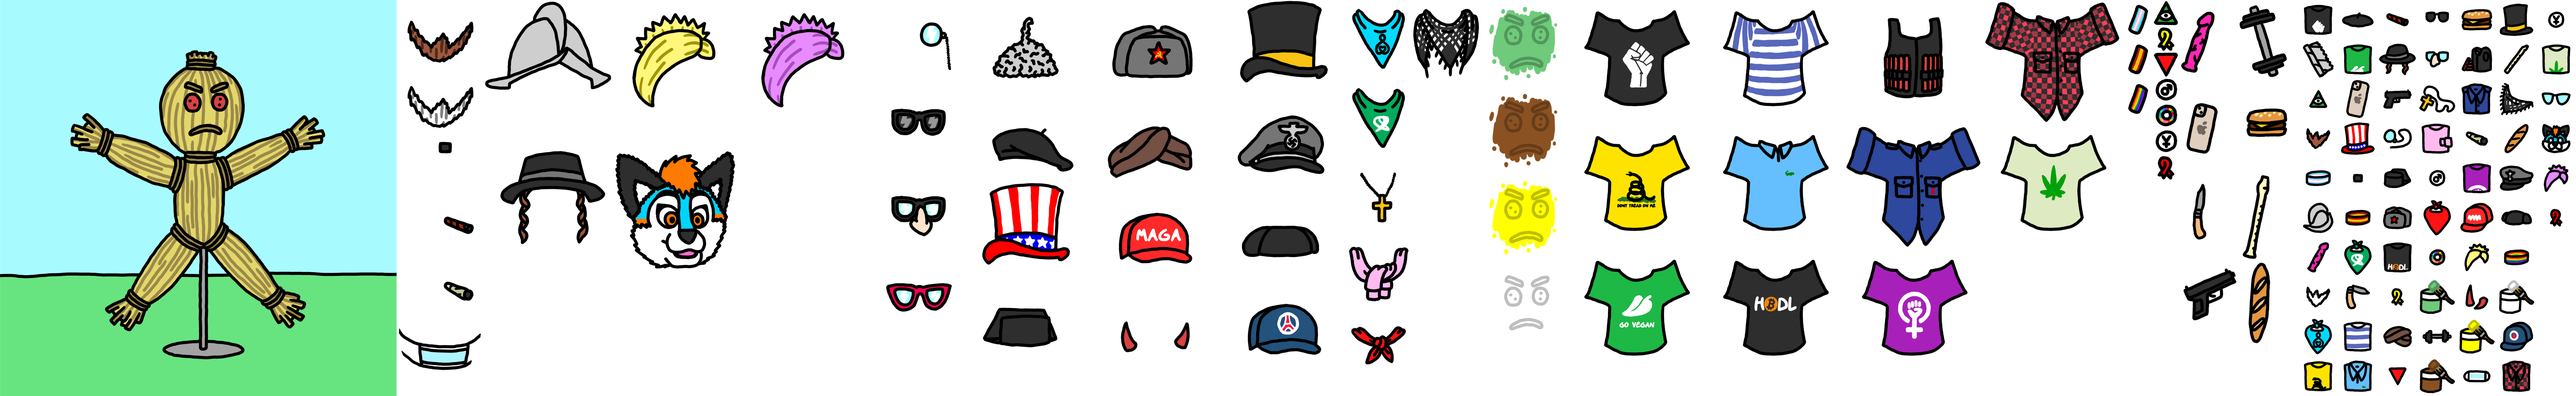
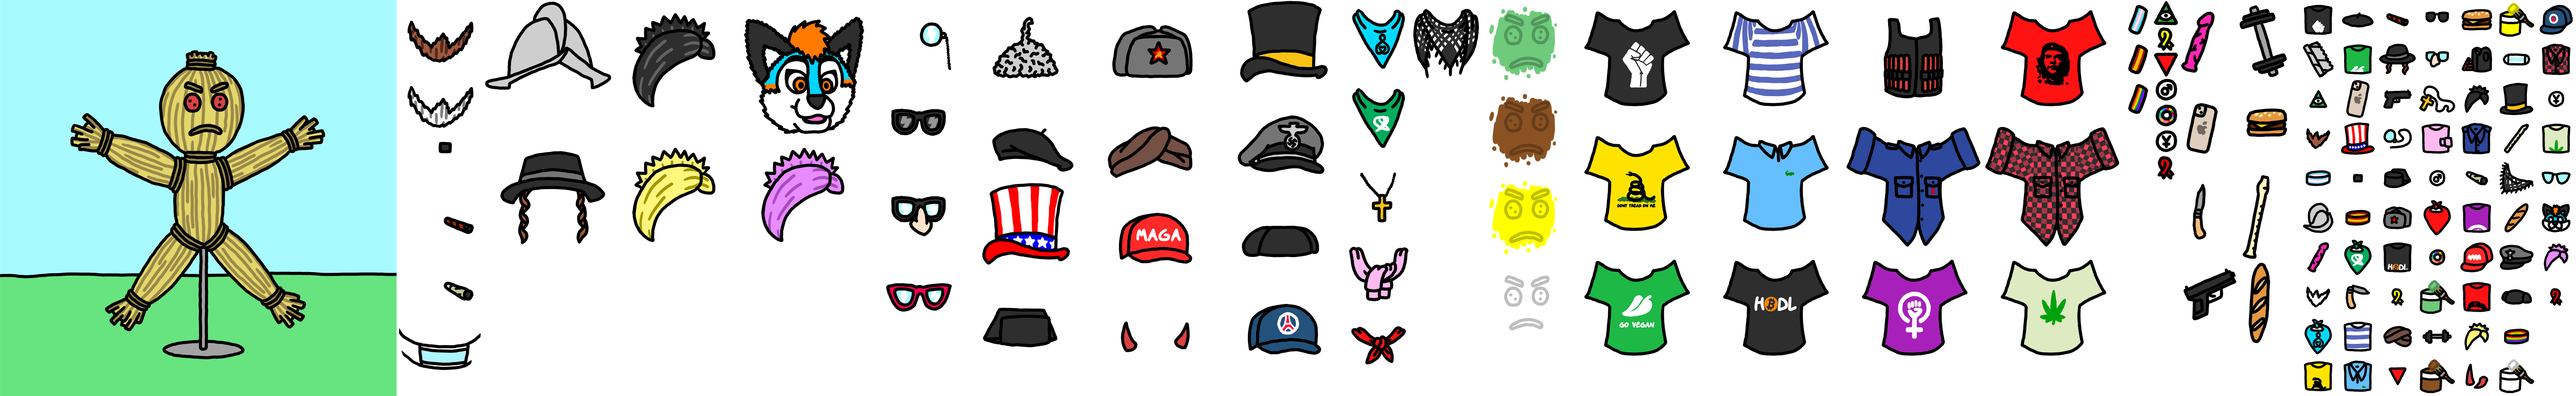
New accessories

diff --git a/docs/static/js/main.40451e90.chunk.js b/docs/static/js/main.40451e90.chunk.js
@@ -1,0 +1,2 @@
+(this.webpackJsonpstrawman=this.webpackJsonpstrawman||[]).push([[0],[,function(e){e.exports=JSON.parse('{"2030":{"en":"2030","es":"2030"},"loading":{"en":"loading","es":"cargando"},"make":{"en":"make your own","es":"crea tu propio"},"by":{"en":"by","es":"por"},"make_at":{"en":"make your own at","es":"crea el tuyo propio en"},"strawman":{"en":"straw man","es":"hombre de paja"},"download":{"en":"download","es":"descargar"},"accessories":{"en":"accessories","es":"accesorios"},"head":{"en":"head","es":"cabeza"},"color":{"en":"skin color","es":"tono de piel"},"glasses":{"en":"glasses","es":"gafas"},"neck":{"en":"neck","es":"cuello"},"bracelets":{"en":"bracelets","es":"pulseras"},"badges":{"en":"badges","es":"pines"},"hand":{"en":"hand","es":"mano"},"chest":{"en":"chest","es":"pecho"},"mouth":{"en":"mouth","es":"boca"},"spain":{"en":"Spain","es":"Espa\xf1a"},"lgbt":{"en":"LGBTIQ+","es":"LGBTIQ+"},"illuminati":{"en":"Illuminati","es":"Illuminati"},"yunque":{"en":"El Yunque","es":"El Yunque"},"male":{"en":"male","es":"hombre"},"red_triangle":{"en":"red triangle","es":"tri\xe1ngulo rojo"},"red_ribbon":{"en":"red ribbon","es":"lazo rojo"},"yellow_ribbon":{"en":"yellow ribbon","es":"lazo amarillo"},"prochoice":{"en":"pro-choice kerchief","es":"pa\xf1uelo abortero"},"prolife":{"en":"pro-life kerchief","es":"pa\xf1uelo provida"},"cross":{"en":"cross necklace","es":"colgante con cruz"},"nose":{"en":"glasses with nose","es":"gafas con nariz"},"cat_eye":{"en":"cat eye glasses","es":"gafas de ojo de gato"},"monocle":{"en":"monocle","es":"mon\xf3culo"},"green":{"en":"green","es":"verde"},"white":{"en":"white","es":"blanco"},"yellow":{"en":"yellow","es":"amarillo"},"brown":{"en":"brown","es":"marr\xf3n"},"morion":{"en":"morion","es":"morri\xf3n"},"turban":{"en":"turban","es":"turbante"},"sideburns":{"en":"hat with sideburns","es":"gorro con patillas"},"commie":{"en":"communist hat","es":"gorro comunista"},"top":{"en":"top hat","es":"chistera"},"nazi":{"en":"nazi hat","es":"gorra nazi"},"maga":{"en":"MAGA hat","es":"gorra MAGA"},"tricornio":{"en":"tricornio","es":"tricornio"},"montera":{"en":"montera","es":"montera"},"pink_hair":{"en":"pink hair","es":"pelo rosa"},"blond_hair":{"en":"blond hair","es":"pelo rubio"},"horns":{"en":"horns","es":"cuernos"},"furry":{"en":"furry mask","es":"m\xe1scara de furro"},"keffiyeh":{"en":"Palestinian keffiyeh","es":"palestina"},"sweater":{"en":"sweater","es":"jersey"},"tinfoil":{"en":"tinfoil","es":"papel de aluminio"},"flute":{"en":"flute","es":"flauta"},"dildo":{"en":"dildo","es":"consolador"},"gun":{"en":"gun","es":"pistola"},"iphone":{"en":"iPhone","es":"iPhone"},"blue_shirt":{"en":"blue shirt","es":"camisa azul"},"lumberjack":{"en":"lumberjack shirt","es":"camisa le\xf1ador"},"blm":{"en":"BLM T-shirt","es":"camiseta BLM"},"gadsden":{"en":"Gadsden T-shirt","es":"camiseta Gadsden"},"polo":{"en":"polo shirt","es":"polo"},"vegan":{"en":"vegan T-shirt","es":"camiseta vegana"},"feminism":{"en":"feminist T-shirt","es":"camiseta feminista"},"bitcoin":{"en":"Bitcoin T-shirt","es":"camiseta de Bitcoin"},"chaplin":{"en":"Chaplin moustache","es":"bigote de Chaplin"},"brown_beard":{"en":"brown beard","es":"barba casta\xf1a"},"white_beard":{"en":"white beard","es":"barba blanca"},"sam":{"en":"Uncle Sam\'s hat","es":"chistera del T\xedo Sam"},"cigar":{"en":"cigar","es":"puro"},"burger":{"en":"burger","es":"hamburguesa"},"baguette":{"en":"baguette","es":"baguette"},"beret":{"en":"beret","es":"boina"},"kerchief":{"en":"kerchief","es":"pa\xf1uelo"},"joint":{"en":"joint","es":"porro"},"striped":{"en":"striped T-shirt","es":"camiseta de rayas"},"weed":{"en":"weed T-shirt","es":"camiseta mar\xeda"},"vest":{"en":"bomb vest","es":"chaleco bomba"},"dumbbell":{"en":"dumbbell","es":"mancuerna"},"knife":{"en":"knife","es":"navaja"},"sunglasses":{"en":"sunglasses","es":"gafas de sol"},"trans":{"en":"trans","es":"trans"},"psg":{"en":"PSG hat","es":"gorra PSG"},"mask":{"en":"mask","es":"mascarilla"},"black_hair":{"en":"black hair","es":"pelo negro"},"che":{"en":"Che T-shirt","es":"camiseta del Che"}}')},,,,,,,,,function(e){e.exports=JSON.parse('{"hand":{"flute":{"x":5645,"y":440,"w":150,"h":220,"t":{"x":6295,"y":300,"w":100,"h":100}},"iphone":{"x":5495,"y":220,"w":150,"h":220,"t":{"x":5895,"y":200,"w":100,"h":100}},"gun":{"x":5495,"y":660,"w":150,"h":220,"t":{"x":5995,"y":200,"w":100,"h":100}},"burger":{"x":5645,"y":220,"w":150,"h":220,"t":{"x":6195,"y":0,"w":100,"h":100}},"dildo":{"x":5495,"y":0,"w":150,"h":220,"t":{"x":5795,"y":600,"w":100,"h":100}},"dumbbell":{"x":5645,"y":0,"w":150,"h":220,"t":{"x":6095,"y":800,"w":100,"h":100}},"knife":{"x":5495,"y":440,"w":150,"h":220,"t":{"x":5895,"y":700,"w":100,"h":100}},"baguette":{"x":5645,"y":660,"w":150,"h":220,"t":{"x":6295,"y":500,"w":100,"h":100}}},"head2":{"sideburns":{"x":1220,"y":340,"w":325,"h":340,"t":{"x":5995,"y":100,"w":100,"h":100}},"morion":{"x":1220,"y":0,"w":325,"h":340,"t":{"x":5795,"y":500,"w":100,"h":100}},"furry":{"x":1870,"y":0,"w":325,"h":340,"t":{"x":6395,"y":500,"w":100,"h":100}},"black_hair":{"x":1545,"y":0,"w":325,"h":340,"t":{"x":6195,"y":200,"w":100,"h":100}},"pink_hair":{"x":1870,"y":340,"w":325,"h":340,"t":{"x":6395,"y":600,"w":100,"h":100}},"blond_hair":{"x":1545,"y":340,"w":325,"h":340,"t":{"x":6195,"y":800,"w":100,"h":100}}},"glasses":{"sunglasses":{"x":2195,"y":220,"w":220,"h":220,"t":{"x":6095,"y":0,"w":100,"h":100}},"monocle":{"x":2195,"y":0,"w":220,"h":220,"t":{"x":5995,"y":300,"w":100,"h":100}},"cat_eye":{"x":2195,"y":660,"w":220,"h":220,"t":{"x":6395,"y":400,"w":100,"h":100}},"nose":{"x":2195,"y":440,"w":220,"h":220,"t":{"x":6095,"y":100,"w":100,"h":100}}},"strawman":{"x":0,"y":0,"w":1000,"h":1000},"neck":{"kerchief":{"x":3390,"y":800,"w":170,"h":200,"t":{"x":6095,"y":500,"w":100,"h":100}},"sweater":{"x":3390,"y":600,"w":170,"h":200,"t":{"x":6095,"y":300,"w":100,"h":100}},"prochoice":{"x":3390,"y":200,"w":170,"h":200,"t":{"x":5895,"y":600,"w":100,"h":100}},"cross":{"x":3390,"y":400,"w":170,"h":200,"t":{"x":6095,"y":200,"w":100,"h":100}},"keffiyeh":{"x":3560,"y":0,"w":170,"h":200,"t":{"x":6295,"y":400,"w":100,"h":100}},"prolife":{"x":3390,"y":0,"w":170,"h":200,"t":{"x":5795,"y":800,"w":100,"h":100}}},"bracelets":{"lgbt":{"x":5350,"y":200,"w":80,"h":100,"t":{"x":6295,"y":800,"w":100,"h":100}},"spain":{"x":5350,"y":100,"w":80,"h":100,"t":{"x":5895,"y":500,"w":100,"h":100}},"trans":{"x":5350,"y":0,"w":80,"h":100,"t":{"x":5795,"y":400,"w":100,"h":100}}},"chest":{"blm":{"x":3950,"y":0,"w":350,"h":315,"t":{"x":5795,"y":0,"w":100,"h":100}},"striped":{"x":4300,"y":0,"w":350,"h":315,"t":{"x":5895,"y":800,"w":100,"h":100}},"vegan":{"x":3950,"y":630,"w":350,"h":315,"t":{"x":5895,"y":100,"w":100,"h":100}},"blue_shirt":{"x":4650,"y":315,"w":350,"h":315,"t":{"x":6195,"y":300,"w":100,"h":100}},"polo":{"x":4300,"y":315,"w":350,"h":315,"t":{"x":5895,"y":900,"w":100,"h":100}},"bitcoin":{"x":4300,"y":630,"w":350,"h":315,"t":{"x":5995,"y":600,"w":100,"h":100}},"vest":{"x":4650,"y":0,"w":350,"h":315,"t":{"x":6195,"y":100,"w":100,"h":100}},"che":{"x":5000,"y":0,"w":350,"h":315,"t":{"x":6195,"y":700,"w":100,"h":100}},"feminism":{"x":4650,"y":630,"w":350,"h":315,"t":{"x":6195,"y":500,"w":100,"h":100}},"weed":{"x":5000,"y":630,"w":350,"h":315,"t":{"x":6395,"y":300,"w":100,"h":100}},"lumberjack":{"x":5000,"y":315,"w":350,"h":315,"t":{"x":6395,"y":100,"w":100,"h":100}},"gadsden":{"x":3950,"y":315,"w":350,"h":315,"t":{"x":5795,"y":900,"w":100,"h":100}}},"head":{"psg":{"x":3065,"y":690,"w":325,"h":230,"t":{"x":6395,"y":0,"w":100,"h":100}},"commie":{"x":2740,"y":0,"w":325,"h":230,"t":{"x":5995,"y":500,"w":100,"h":100}},"turban":{"x":2740,"y":230,"w":325,"h":230,"t":{"x":5995,"y":800,"w":100,"h":100}},"beret":{"x":2415,"y":230,"w":325,"h":230,"t":{"x":5895,"y":0,"w":100,"h":100}},"maga":{"x":2740,"y":460,"w":325,"h":230,"t":{"x":6195,"y":600,"w":100,"h":100}},"tinfoil":{"x":2415,"y":0,"w":325,"h":230,"t":{"x":5795,"y":100,"w":100,"h":100}},"sam":{"x":2415,"y":460,"w":325,"h":230,"t":{"x":5895,"y":300,"w":100,"h":100}},"tricornio":{"x":2415,"y":690,"w":325,"h":230,"t":{"x":5995,"y":400,"w":100,"h":100}},"montera":{"x":3065,"y":460,"w":325,"h":230,"t":{"x":6295,"y":700,"w":100,"h":100}},"nazi":{"x":3065,"y":230,"w":325,"h":230,"t":{"x":6295,"y":600,"w":100,"h":100}},"horns":{"x":2740,"y":690,"w":325,"h":230,"t":{"x":6195,"y":900,"w":100,"h":100}},"top":{"x":3065,"y":0,"w":325,"h":230,"t":{"x":6295,"y":200,"w":100,"h":100}}},"badges":{"2030":{"x":5430,"y":260,"w":65,"h":65,"t":{"x":6095,"y":600,"w":100,"h":100}},"illuminati":{"x":5430,"y":0,"w":65,"h":65,"t":{"x":5795,"y":200,"w":100,"h":100}},"yunque":{"x":5430,"y":325,"w":65,"h":65,"t":{"x":6395,"y":200,"w":100,"h":100}},"male":{"x":5430,"y":195,"w":65,"h":65,"t":{"x":6095,"y":400,"w":100,"h":100}},"red_triangle":{"x":5430,"y":130,"w":65,"h":65,"t":{"x":5995,"y":900,"w":100,"h":100}},"yellow_ribbon":{"x":5430,"y":65,"w":65,"h":65,"t":{"x":5995,"y":700,"w":100,"h":100}},"red_ribbon":{"x":5430,"y":390,"w":65,"h":65,"t":{"x":6395,"y":700,"w":100,"h":100}}},"mouth":{"cigar":{"x":1000,"y":495,"w":220,"h":165,"t":{"x":5995,"y":0,"w":100,"h":100}},"chaplin":{"x":1000,"y":330,"w":220,"h":165,"t":{"x":5895,"y":400,"w":100,"h":100}},"mask":{"x":1000,"y":825,"w":220,"h":165,"t":{"x":6295,"y":100,"w":100,"h":100}},"brown_beard":{"x":1000,"y":0,"w":220,"h":165,"t":{"x":5795,"y":300,"w":100,"h":100}},"white_beard":{"x":1000,"y":165,"w":220,"h":165,"t":{"x":5795,"y":700,"w":100,"h":100}},"joint":{"x":1000,"y":660,"w":220,"h":165,"t":{"x":6195,"y":400,"w":100,"h":100}}},"color":{"brown":{"x":3730,"y":220,"w":220,"h":220,"t":{"x":6095,"y":900,"w":100,"h":100}},"yellow":{"x":3730,"y":440,"w":220,"h":220,"t":{"x":6295,"y":0,"w":100,"h":100}},"green":{"x":3730,"y":0,"w":220,"h":220,"t":{"x":6095,"y":700,"w":100,"h":100}},"white":{"x":3730,"y":660,"w":220,"h":220,"t":{"x":6295,"y":900,"w":100,"h":100}}}}')},,,,function(e){e.exports=JSON.parse('{"head":{"x":340,"y":10,"w":325,"h":230,"z":8},"head2":{"x":340,"y":55,"w":325,"h":340,"z":8},"color":{"x":400,"y":170,"w":220,"h":220,"z":5},"mouth":{"x":400,"y":260,"w":220,"h":165,"z":6},"glasses":{"x":400,"y":170,"w":220,"h":220,"z":7},"neck":{"x":420,"y":355,"w":170,"h":200,"z":1},"bracelets":{"x":225,"y":310,"w":80,"h":100,"z":2},"badges":{"x":515,"y":395,"w":65,"h":65,"z":3},"hand":{"x":715,"y":230,"w":150,"h":220,"z":4},"chest":{"x":330,"y":345,"w":350,"h":315,"z":0}}')},,,,,,function(e,t,a){},function(e,t,a){},function(e,t,a){},,function(e,t,a){},function(e,t,a){},function(e,t,a){"use strict";a.r(t);var n=a(2),s=a.n(n),r=a(12),i=a.n(r),o=(a(20),a(11)),h=a(3),c=a(4),l=a(6),w=a(5),d=(a(21),a(15)),y=a(13),x=(a(22),function e(t){Object(h.a)(this,e),this.x=t.x,this.y=t.y,this.w=t.w,this.h=t.h}),u=function e(t,a,n,s){Object(h.a)(this,e),this.selected=!1,this.name=t,this.category=a,this.origin=new x(n),this.destination=new x(s),this.order=s.z,this.thumbnail=new x(n.t)},m=a(1),p=a(0),b=function(e){Object(l.a)(a,e);var t=Object(w.a)(a);function a(e){var s;return Object(h.a)(this,a),(s=t.call(this,e)).side=s.props.strawman.h,s.canvas=Object(n.createRef)(),s.maxScaleFactor=.7,s.state={scaleFactor:s.getScaleFactor()},s}return Object(c.a)(a,[{key:"componentDidMount",value:function(){var e=this;window.addEventListener("resize",(function(){e.setState({scaleFactor:e.getScaleFactor()})})),this.drawCanvas()}},{key:"componentDidUpdate",value:function(){this.drawCanvas()}},{key:"render",value:function(){var e=this;return Object(p.jsxs)("div",{className:"canvas-component",children:[Object(p.jsxs)("h1",{children:[Object(p.jsx)("div",{children:m.make[this.props.lang].capitalize()}),Object(p.jsx)("div",{children:m.strawman[this.props.lang].toUpperCase()}),Object(p.jsxs)("div",{children:[m.by[this.props.lang]," ",Object(p.jsx)("a",{href:"/",target:"_blank",children:"progredemente"})]})]}),Object(p.jsx)("canvas",{ref:this.canvas,width:this.side*this.state.scaleFactor,height:this.side*this.state.scaleFactor}),Object(p.jsx)("div",{className:"download",onClick:function(){e.downloadImage()},children:m.download[this.props.lang].capitalize()})]})}},{key:"drawCanvas",value:function(){var e=this.getTempCanvas(),t=this.canvas.current.getContext("2d");t.clearRect(0,0,this.side*this.state.scaleFactor,this.side*this.state.scaleFactor),t.drawImage(e,0,0,this.side*this.state.scaleFactor,this.side*this.state.scaleFactor)}},{key:"getTempCanvas",value:function(){var e=document.createElement("canvas");e.width=this.side,e.height=this.side;var t=e.getContext("2d");return this.drawImage(this.props.strawman,this.props.strawman,t),this.drawWardrobe(this.props.wardrobe,t),this.drawUrl(t),e}},{key:"drawWardrobe",value:function(e,t){var a,n=Object(y.a)(this.getClothes(e).sort((function(e,t){return e.order-t.order})));try{for(n.s();!(a=n.n()).done;){var s=a.value;this.drawImage(s.origin,s.destination,t)}}catch(r){n.e(r)}finally{n.f()}}},{key:"getClothes",value:function(e){var t=[];for(var a in e)e[a]instanceof u?e[a].selected&&t.push(e[a]):t.push.apply(t,Object(d.a)(this.getClothes(e[a])));return t}},{key:"drawImage",value:function(e,t,a){a.drawImage(this.props.img,e.x,e.y,e.w,e.h,t.x,t.y,t.w,t.h)}},{key:"drawUrl",value:function(e){e.font="40px ComicTypo",e.textAlign="center",e.globalAlpha=.25,e.fillText(m.make_at[this.props.lang].capitalize(),this.side/2,this.side-60),e.globalAlpha=.5,e.fillText("progredemente.com/strawman",this.side/2,this.side-20)}},{key:"downloadImage",value:function(){var e=document.createElement("a");e.download="strawman.png",this.getTempCanvas().toBlob((function(t){var a=URL.createObjectURL(t);e.href=a,e.click()}))}},{key:"getScaleFactor",value:function(){return window.innerWidth<this.side*this.maxScaleFactor?window.innerWidth/this.side:this.maxScaleFactor}}]),a}(n.Component),g=(a(24),a(25),function(e){Object(l.a)(a,e);var t=Object(w.a)(a);function a(){return Object(h.a)(this,a),t.apply(this,arguments)}return Object(c.a)(a,[{key:"render",value:function(){var e=this;return Object(p.jsxs)("div",{className:"garment".concat(this.props.garment.selected?" selected":""),onClick:function(){e.props.selectGarment(e.props.garment)},children:[Object(p.jsx)("img",{src:"./merge.png",style:{"--x":"".concat(this.props.garment.thumbnail.x,"px"),"--y":"".concat(this.props.garment.thumbnail.y,"px"),"--w":"".concat(this.props.garment.thumbnail.w,"px"),"--h":"".concat(this.props.garment.thumbnail.h,"px")},alt:m[this.props.garment.name][this.props.lang]}),Object(p.jsx)("figcaption",{children:m[this.props.garment.name][this.props.lang]})]})}}]),a}(n.Component)),f=g,j=function(e){Object(l.a)(a,e);var t=Object(w.a)(a);function a(){return Object(h.a)(this,a),t.apply(this,arguments)}return Object(c.a)(a,[{key:"render",value:function(){var e=this;return Object(p.jsxs)("div",{className:"wardrobe",children:[Object(p.jsx)("h1",{children:m.accessories[this.props.lang].capitalize()}),Object.keys(this.props.wardrobe).map((function(t){return Object(p.jsxs)("div",{className:"category",children:[Object(p.jsx)("span",{children:m[t][e.props.lang].capitalize()}),Object(p.jsx)("div",{className:"content",children:Object.keys(e.props.wardrobe[t]).map((function(a){return Object(p.jsx)(f,{garment:e.props.wardrobe[t][a],selectGarment:e.props.selectGarment,lang:e.props.lang},a)}))})]},t)}))]})}}]),a}(n.Component),v=j,k=a(10),O=a(14),C=function(e){Object(l.a)(a,e);var t=Object(w.a)(a);function a(e){var n,s;Object(h.a)(this,a),(n=t.call(this,e)).selectGarment=function(e){if(!e.selected)for(var t in e.category){var a=e.category[t];a!==e&&(a.selected=!1)}e.selected=!e.selected,n.setState({})};try{s=navigator.language.toLowerCase().split("-")[0]}catch(r){}return["en","es"].includes(s)||(s="en"),n.state={wardrobe:n.getWardrobe(k,O),lang:s,loaded:!1},n}return Object(c.a)(a,[{key:"componentDidMount",value:function(){var e=this;this.img=new Image,this.img.src="./merge.png",this.img.onload=function(){e.setState({loaded:!0})}}},{key:"joinCategories",value:function(e,t,a){for(var n in e[t]=Object(o.a)(Object(o.a)({},e[t]),e[a]),delete e[a],e[t])e[t][n].category=e[t]}},{key:"getWardrobe",value:function(e,t){var a={};for(var n in e)if("strawman"!==n)for(var s in a[n]={},e[n])a[n][s]=new u(s,a[n],e[n][s],t[n]);return this.joinCategories(a,"head","head2"),console.log(a),a}},{key:"render",value:function(){return Object(p.jsxs)(p.Fragment,{children:[this.state.loaded&&Object(p.jsxs)("div",{className:"app",children:[Object(p.jsx)(b,{wardrobe:this.state.wardrobe,strawman:new x(k.strawman),lang:this.state.lang,img:this.img}),Object(p.jsx)(v,{wardrobe:this.state.wardrobe,selectGarment:this.selectGarment,lang:this.state.lang})]}),!this.state.loaded&&Object(p.jsxs)("div",{className:"loading",children:[Object(p.jsx)("img",{src:"./favicon.png",alt:m.loading[this.state.lang]}),m.loading[this.state.lang]]})]})}}]),a}(n.Component),z=function(e){e&&e instanceof Function&&a.e(3).then(a.bind(null,27)).then((function(t){var a=t.getCLS,n=t.getFID,s=t.getFCP,r=t.getLCP,i=t.getTTFB;a(e),n(e),s(e),r(e),i(e)}))};String.prototype.capitalize=function(){return this[0].toUpperCase()+this.substr(1,this.length)},i.a.render(Object(p.jsx)(s.a.StrictMode,{children:Object(p.jsx)(C,{})}),document.getElementById("root")),z()}],[[26,1,2]]]);
+//# sourceMappingURL=main.40451e90.chunk.js.map

diff --git a/docs/index.html b/docs/index.html
@@ -1,1 +1,1 @@
-<!doctype html><html lang="en"><head><script async src="https://www.googletagmanager.com/gtag/js?id=G-Y5CBECWJKM"></script><script>function gtag(){dataLayer.push(arguments)}window.dataLayer=window.dataLayer||[],gtag("js",new Date),gtag("config","G-Y5CBECWJKM",{send_page_view:!1}),gtag("event","page_view",{page_title:"strawman"})</script><meta charset="utf-8"/><link rel="icon" href="./favicon.png"/><meta name="viewport" content="width=device-width,initial-scale=1"/><meta name="theme-color" content="#000000"/><meta name="description" content="Web site created using create-react-app"/><link rel="apple-touch-icon" href="./logo192.png"/><link rel="manifest" href="./manifest.json"/><title>Straw man</title><link href="./static/css/main.2544bd09.chunk.css" rel="stylesheet"></head><body><noscript>You need to enable JavaScript to run this app.</noscript><div id="root"></div><script>!function(e){function r(r){for(var n,u,i=r[0],c=r[1],l=r[2],s=0,p=[];s<i.length;s++)u=i[s],Object.prototype.hasOwnProperty.call(o,u)&&o[u]&&p.push(o[u][0]),o[u]=0;for(n in c)Object.prototype.hasOwnProperty.call(c,n)&&(e[n]=c[n]);for(f&&f(r);p.length;)p.shift()();return a.push.apply(a,l||[]),t()}function t(){for(var e,r=0;r<a.length;r++){for(var t=a[r],n=!0,i=1;i<t.length;i++){var c=t[i];0!==o[c]&&(n=!1)}n&&(a.splice(r--,1),e=u(u.s=t[0]))}return e}var n={},o={1:0},a=[];function u(r){if(n[r])return n[r].exports;var t=n[r]={i:r,l:!1,exports:{}};return e[r].call(t.exports,t,t.exports,u),t.l=!0,t.exports}u.e=function(e){var r=[],t=o[e];if(0!==t)if(t)r.push(t[2]);else{var n=new Promise((function(r,n){t=o[e]=[r,n]}));r.push(t[2]=n);var a,i=document.createElement("script");i.charset="utf-8",i.timeout=120,u.nc&&i.setAttribute("nonce",u.nc),i.src=function(e){return u.p+"static/js/"+({}[e]||e)+"."+{3:"adbab9fa"}[e]+".chunk.js"}(e);var c=new Error;a=function(r){i.onerror=i.onload=null,clearTimeout(l);var t=o[e];if(0!==t){if(t){var n=r&&("load"===r.type?"missing":r.type),a=r&&r.target&&r.target.src;c.message="Loading chunk "+e+" failed.\n("+n+": "+a+")",c.name="ChunkLoadError",c.type=n,c.request=a,t[1](c)}o[e]=void 0}};var l=setTimeout((function(){a({type:"timeout",target:i})}),12e4);i.onerror=i.onload=a,document.head.appendChild(i)}return Promise.all(r)},u.m=e,u.c=n,u.d=function(e,r,t){u.o(e,r)||Object.defineProperty(e,r,{enumerable:!0,get:t})},u.r=function(e){"undefined"!=typeof Symbol&&Symbol.toStringTag&&Object.defineProperty(e,Symbol.toStringTag,{value:"Module"}),Object.defineProperty(e,"__esModule",{value:!0})},u.t=function(e,r){if(1&r&&(e=u(e)),8&r)return e;if(4&r&&"object"==typeof e&&e&&e.__esModule)return e;var t=Object.create(null);if(u.r(t),Object.defineProperty(t,"default",{enumerable:!0,value:e}),2&r&&"string"!=typeof e)for(var n in e)u.d(t,n,function(r){return e[r]}.bind(null,n));return t},u.n=function(e){var r=e&&e.__esModule?function(){return e.default}:function(){return e};return u.d(r,"a",r),r},u.o=function(e,r){return Object.prototype.hasOwnProperty.call(e,r)},u.p="./",u.oe=function(e){throw console.error(e),e};var i=this.webpackJsonpstrawman=this.webpackJsonpstrawman||[],c=i.push.bind(i);i.push=r,i=i.slice();for(var l=0;l<i.length;l++)r(i[l]);var f=c;t()}([])</script><script src="./static/js/2.2e0816a8.chunk.js"></script><script src="./static/js/main.d4635e55.chunk.js"></script></body></html>
+<!doctype html><html lang="en"><head><script async src="https://www.googletagmanager.com/gtag/js?id=G-Y5CBECWJKM"></script><script>function gtag(){dataLayer.push(arguments)}window.dataLayer=window.dataLayer||[],gtag("js",new Date),gtag("config","G-Y5CBECWJKM",{send_page_view:!1}),gtag("event","page_view",{page_title:"strawman"})</script><meta charset="utf-8"/><link rel="icon" href="./favicon.png"/><meta name="viewport" content="width=device-width,initial-scale=1"/><meta name="theme-color" content="#000000"/><meta name="description" content="Web site created using create-react-app"/><link rel="apple-touch-icon" href="./logo192.png"/><link rel="manifest" href="./manifest.json"/><title>Straw man</title><link href="./static/css/main.2544bd09.chunk.css" rel="stylesheet"></head><body><noscript>You need to enable JavaScript to run this app.</noscript><div id="root"></div><script>!function(e){function r(r){for(var n,u,i=r[0],c=r[1],l=r[2],s=0,p=[];s<i.length;s++)u=i[s],Object.prototype.hasOwnProperty.call(o,u)&&o[u]&&p.push(o[u][0]),o[u]=0;for(n in c)Object.prototype.hasOwnProperty.call(c,n)&&(e[n]=c[n]);for(f&&f(r);p.length;)p.shift()();return a.push.apply(a,l||[]),t()}function t(){for(var e,r=0;r<a.length;r++){for(var t=a[r],n=!0,i=1;i<t.length;i++){var c=t[i];0!==o[c]&&(n=!1)}n&&(a.splice(r--,1),e=u(u.s=t[0]))}return e}var n={},o={1:0},a=[];function u(r){if(n[r])return n[r].exports;var t=n[r]={i:r,l:!1,exports:{}};return e[r].call(t.exports,t,t.exports,u),t.l=!0,t.exports}u.e=function(e){var r=[],t=o[e];if(0!==t)if(t)r.push(t[2]);else{var n=new Promise((function(r,n){t=o[e]=[r,n]}));r.push(t[2]=n);var a,i=document.createElement("script");i.charset="utf-8",i.timeout=120,u.nc&&i.setAttribute("nonce",u.nc),i.src=function(e){return u.p+"static/js/"+({}[e]||e)+"."+{3:"adbab9fa"}[e]+".chunk.js"}(e);var c=new Error;a=function(r){i.onerror=i.onload=null,clearTimeout(l);var t=o[e];if(0!==t){if(t){var n=r&&("load"===r.type?"missing":r.type),a=r&&r.target&&r.target.src;c.message="Loading chunk "+e+" failed.\n("+n+": "+a+")",c.name="ChunkLoadError",c.type=n,c.request=a,t[1](c)}o[e]=void 0}};var l=setTimeout((function(){a({type:"timeout",target:i})}),12e4);i.onerror=i.onload=a,document.head.appendChild(i)}return Promise.all(r)},u.m=e,u.c=n,u.d=function(e,r,t){u.o(e,r)||Object.defineProperty(e,r,{enumerable:!0,get:t})},u.r=function(e){"undefined"!=typeof Symbol&&Symbol.toStringTag&&Object.defineProperty(e,Symbol.toStringTag,{value:"Module"}),Object.defineProperty(e,"__esModule",{value:!0})},u.t=function(e,r){if(1&r&&(e=u(e)),8&r)return e;if(4&r&&"object"==typeof e&&e&&e.__esModule)return e;var t=Object.create(null);if(u.r(t),Object.defineProperty(t,"default",{enumerable:!0,value:e}),2&r&&"string"!=typeof e)for(var n in e)u.d(t,n,function(r){return e[r]}.bind(null,n));return t},u.n=function(e){var r=e&&e.__esModule?function(){return e.default}:function(){return e};return u.d(r,"a",r),r},u.o=function(e,r){return Object.prototype.hasOwnProperty.call(e,r)},u.p="./",u.oe=function(e){throw console.error(e),e};var i=this.webpackJsonpstrawman=this.webpackJsonpstrawman||[],c=i.push.bind(i);i.push=r,i=i.slice();for(var l=0;l<i.length;l++)r(i[l]);var f=c;t()}([])</script><script src="./static/js/2.2e0816a8.chunk.js"></script><script src="./static/js/main.40451e90.chunk.js"></script></body></html>
